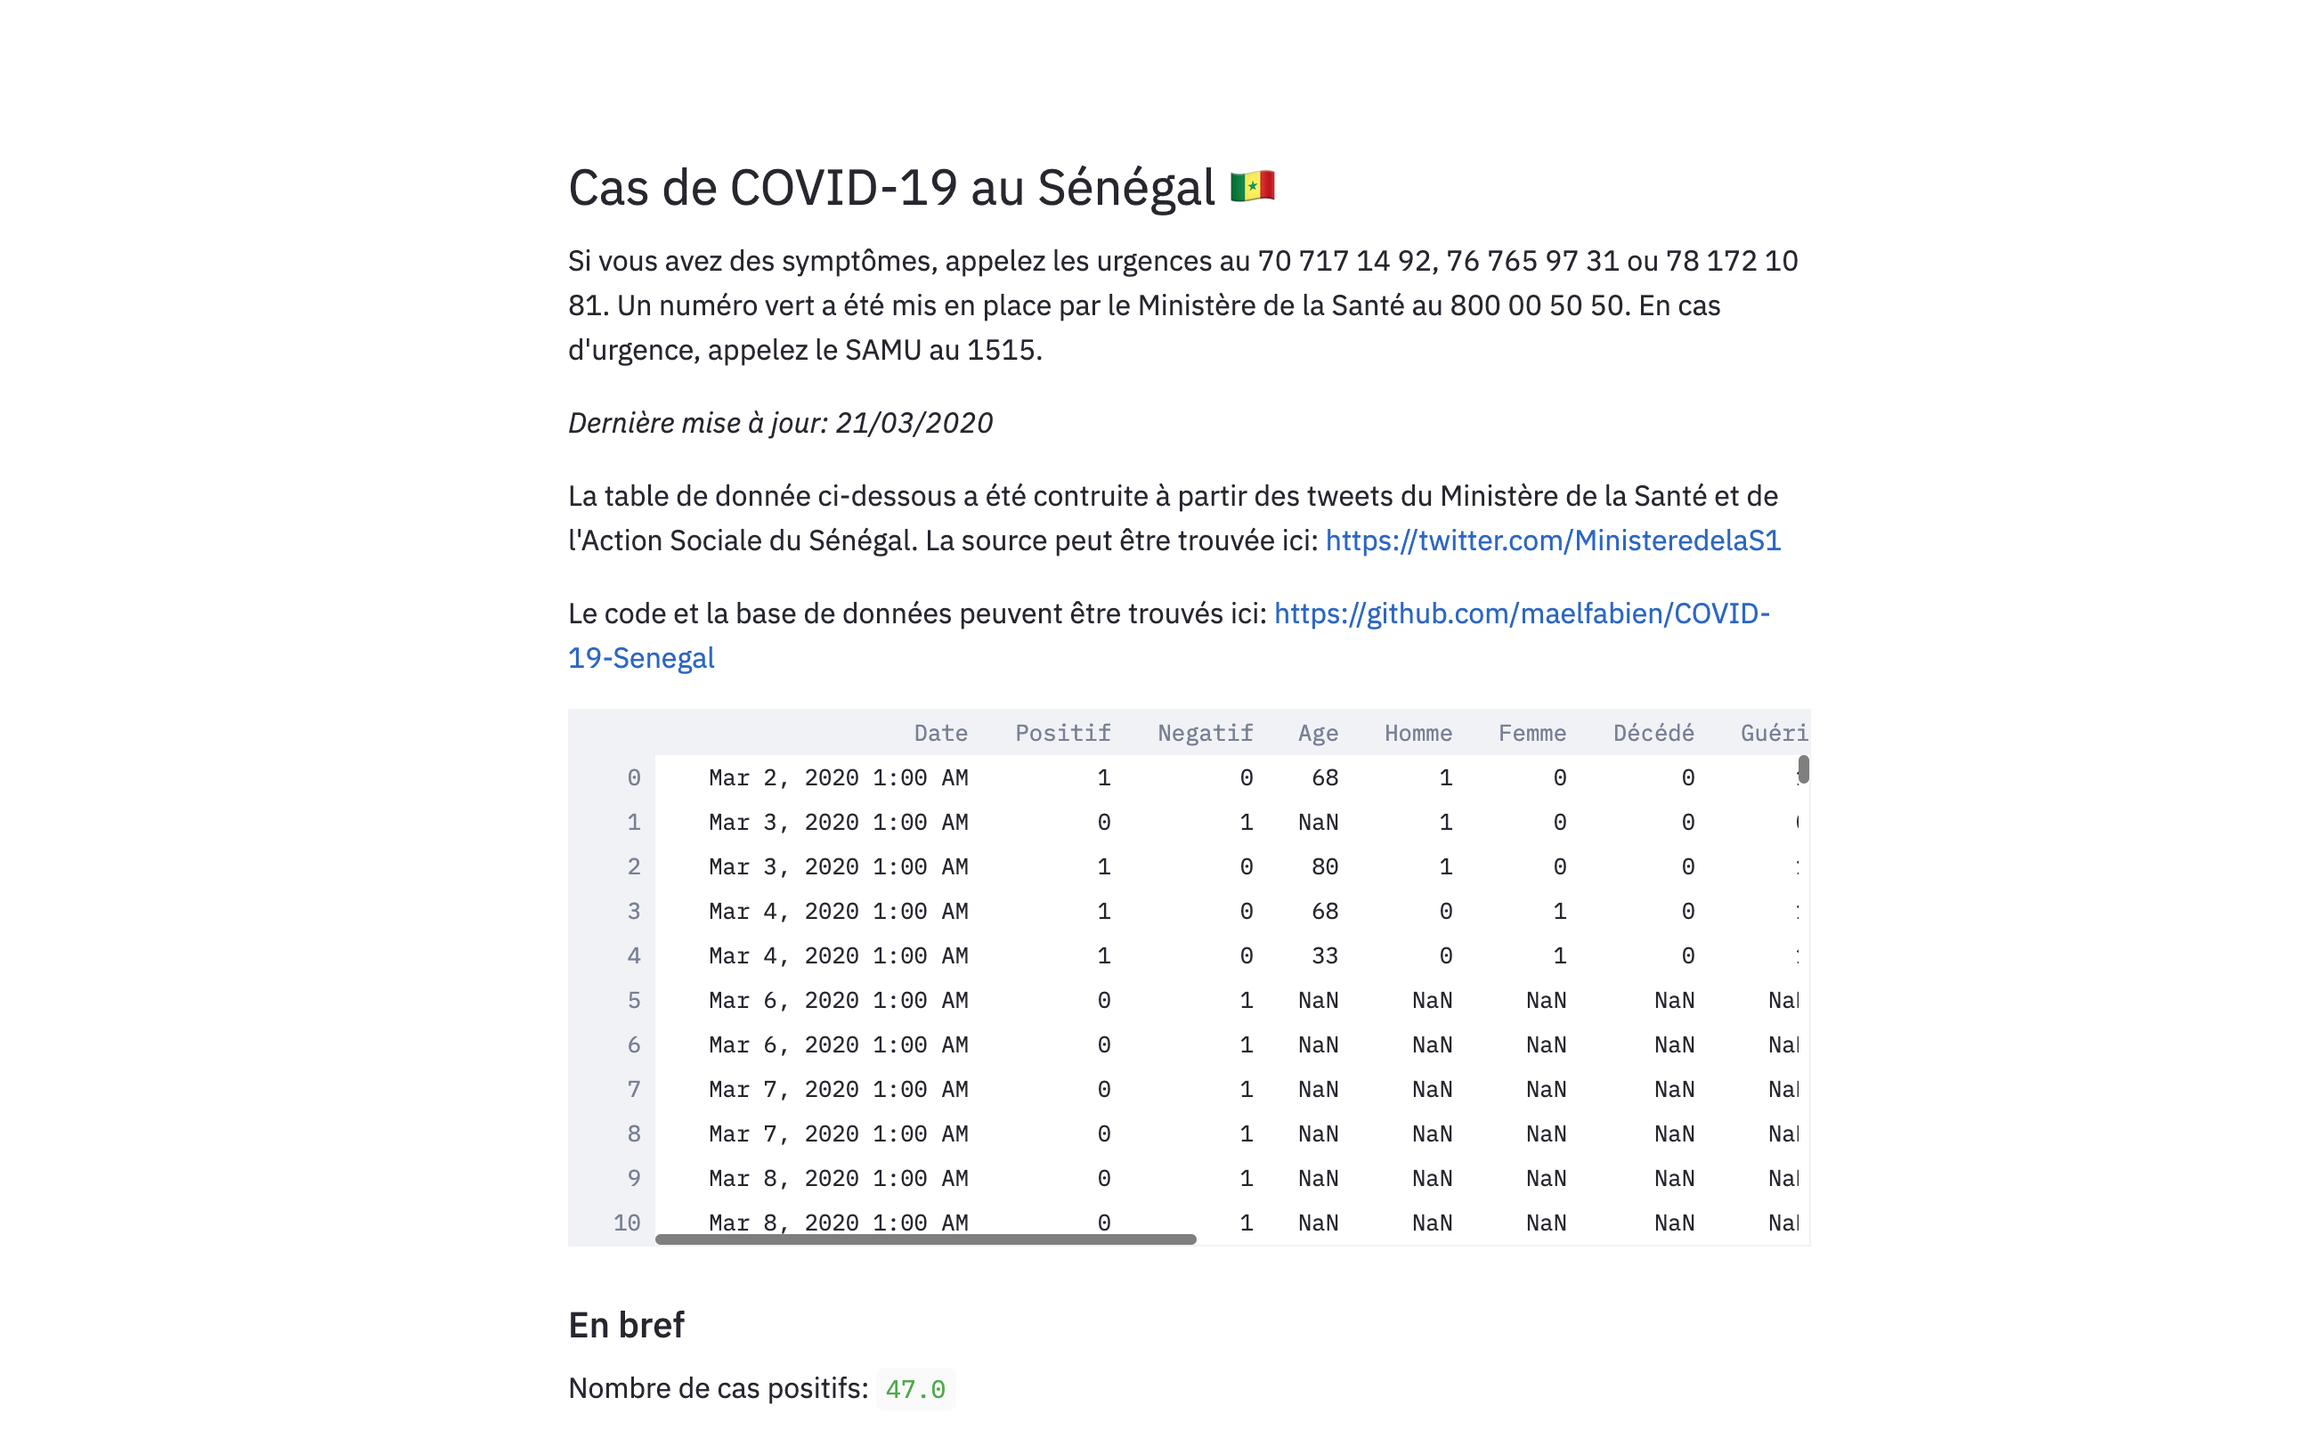
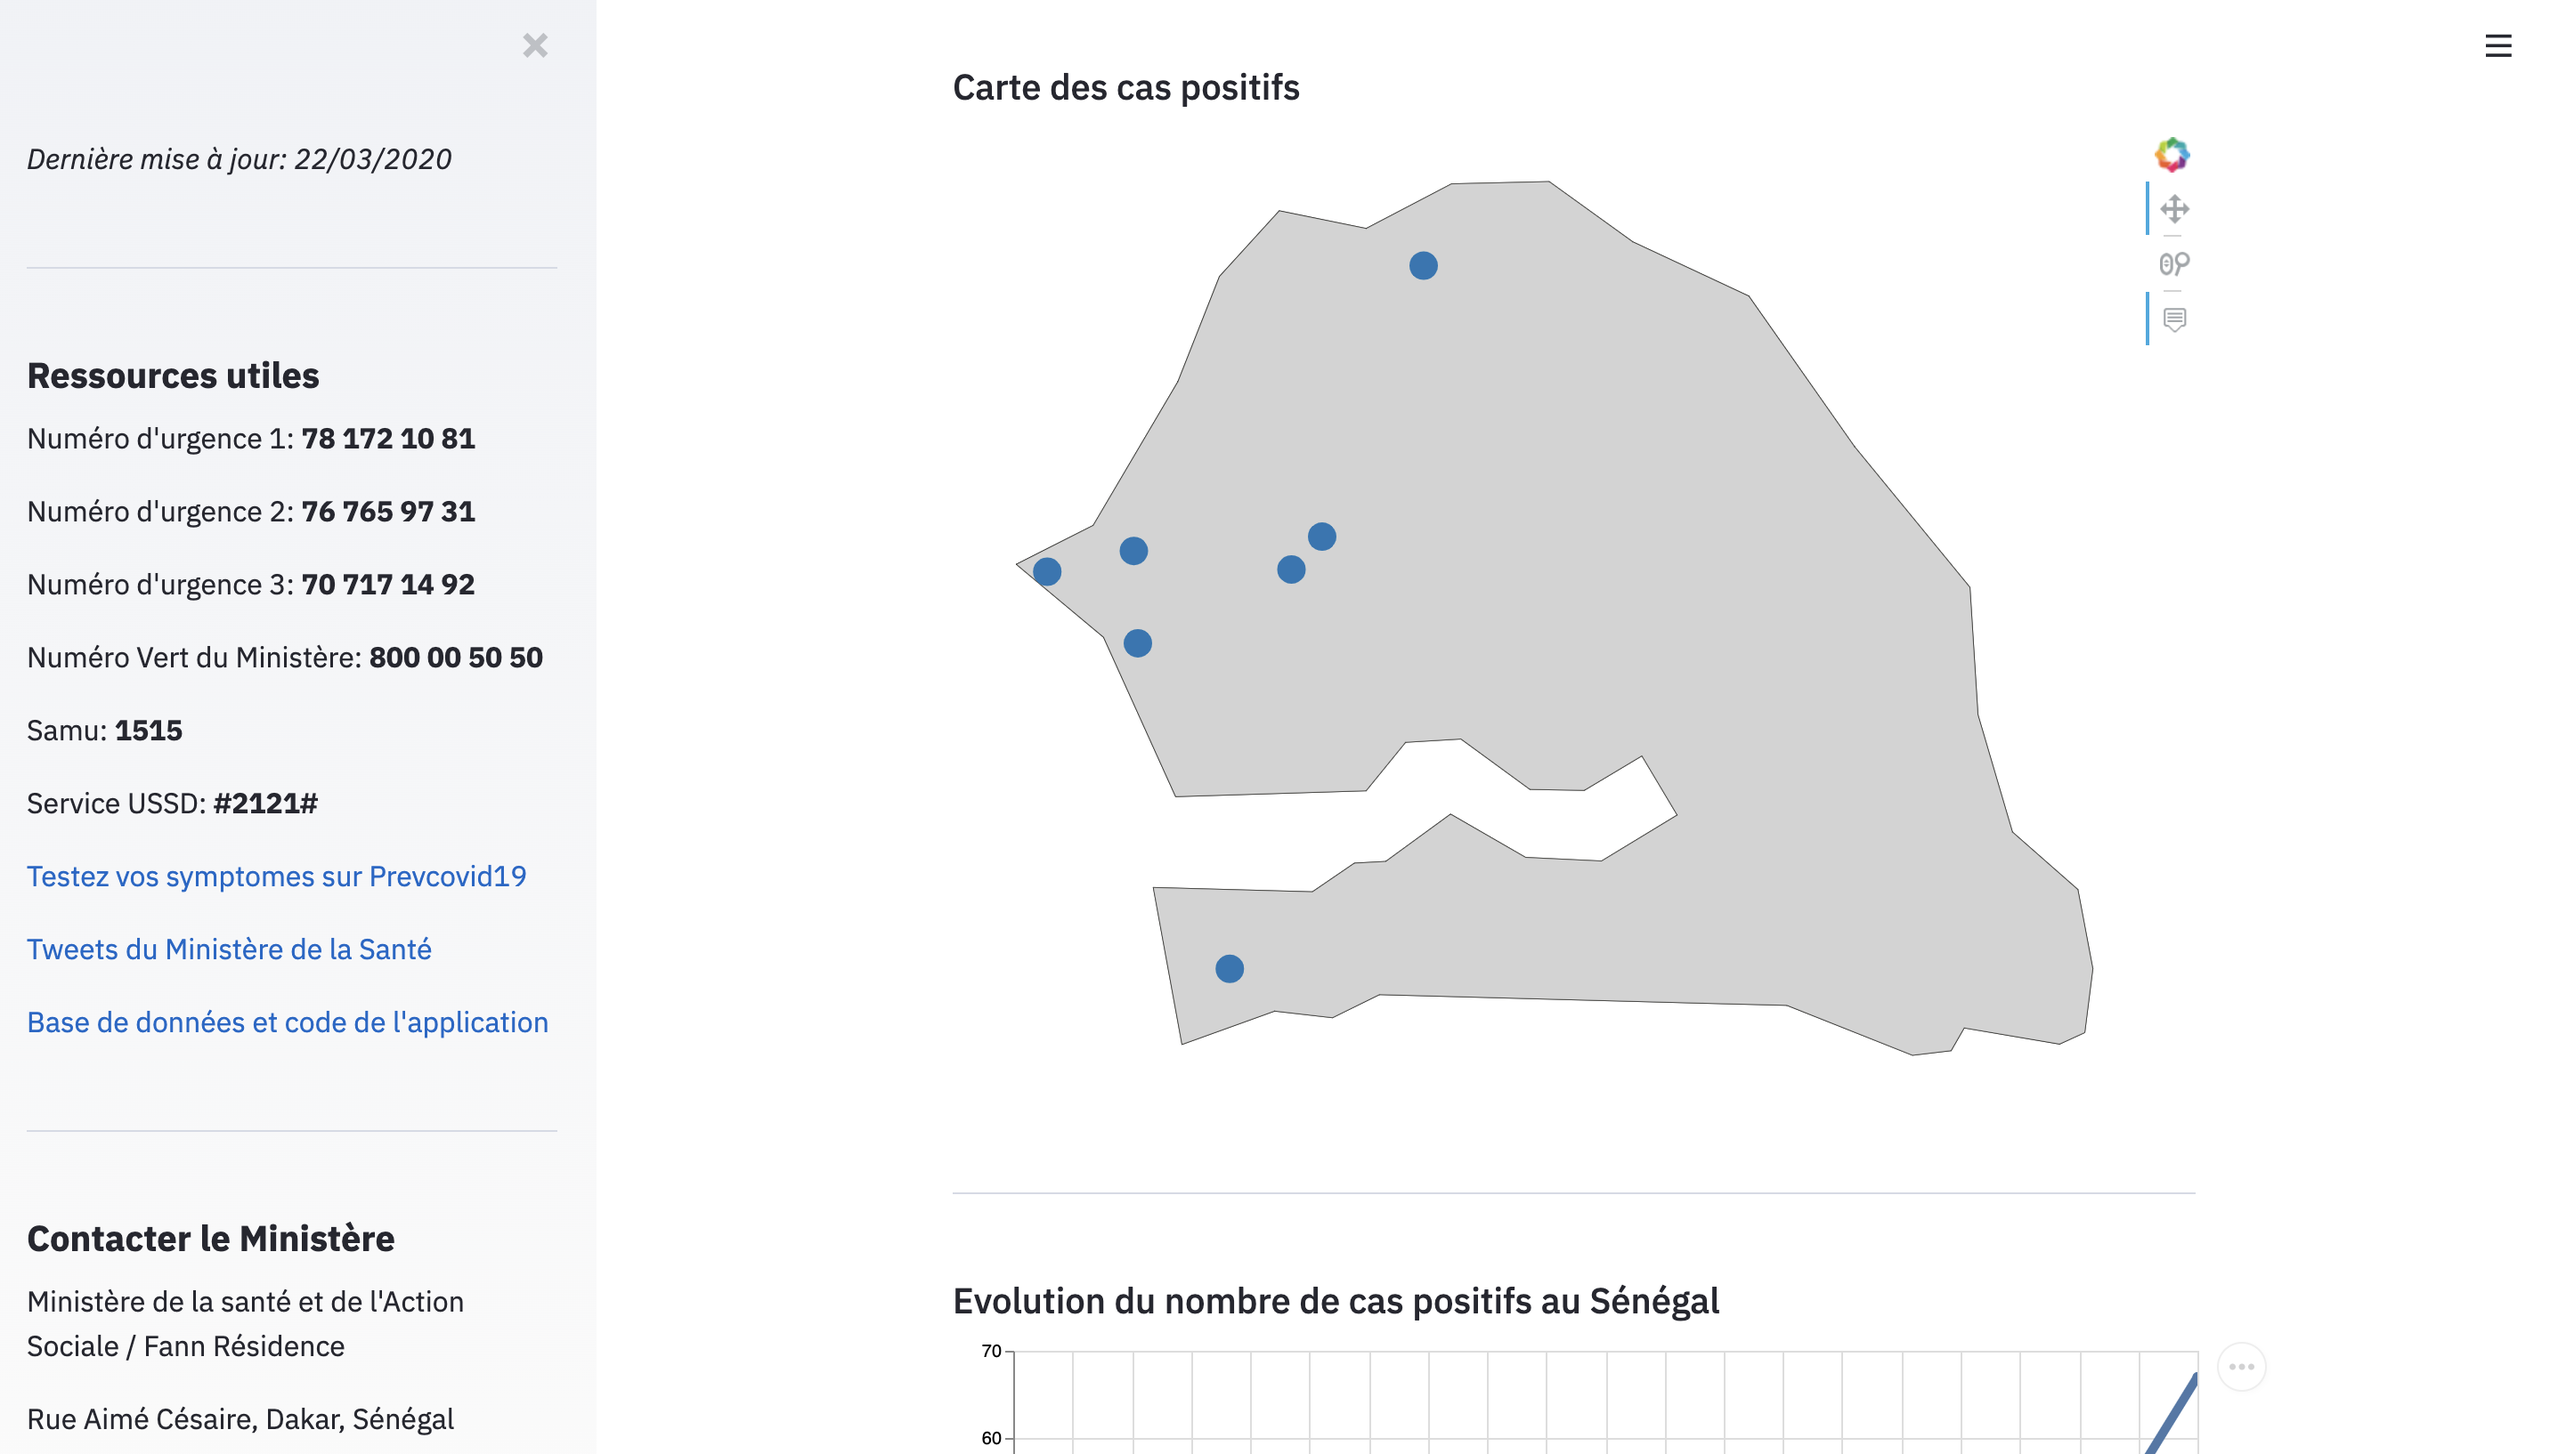
Change image

diff --git a/app/app.py b/app/app.py
@@ -34,6 +34,10 @@ st.header("COVID-19 au Sénégal 🇸🇳")
 st.sidebar.markdown("*Dernière mise à jour: 22/03/2020*")
 st.sidebar.markdown("---")
 st.sidebar.header("Ressources utiles")
+
+st.sidebar.markdown("Numéro d'urgence 1: **78 172 10 81**")
+st.sidebar.markdown("Numéro d'urgence 2: **76 765 97 31**")
+st.sidebar.markdown("Numéro d'urgence 3: **70 717 14 92**")
 st.sidebar.markdown("Numéro Vert du Ministère: **800 00 50 50**")
 st.sidebar.markdown("Samu: **1515**")
 st.sidebar.markdown("Service USSD: **#2121#**")
